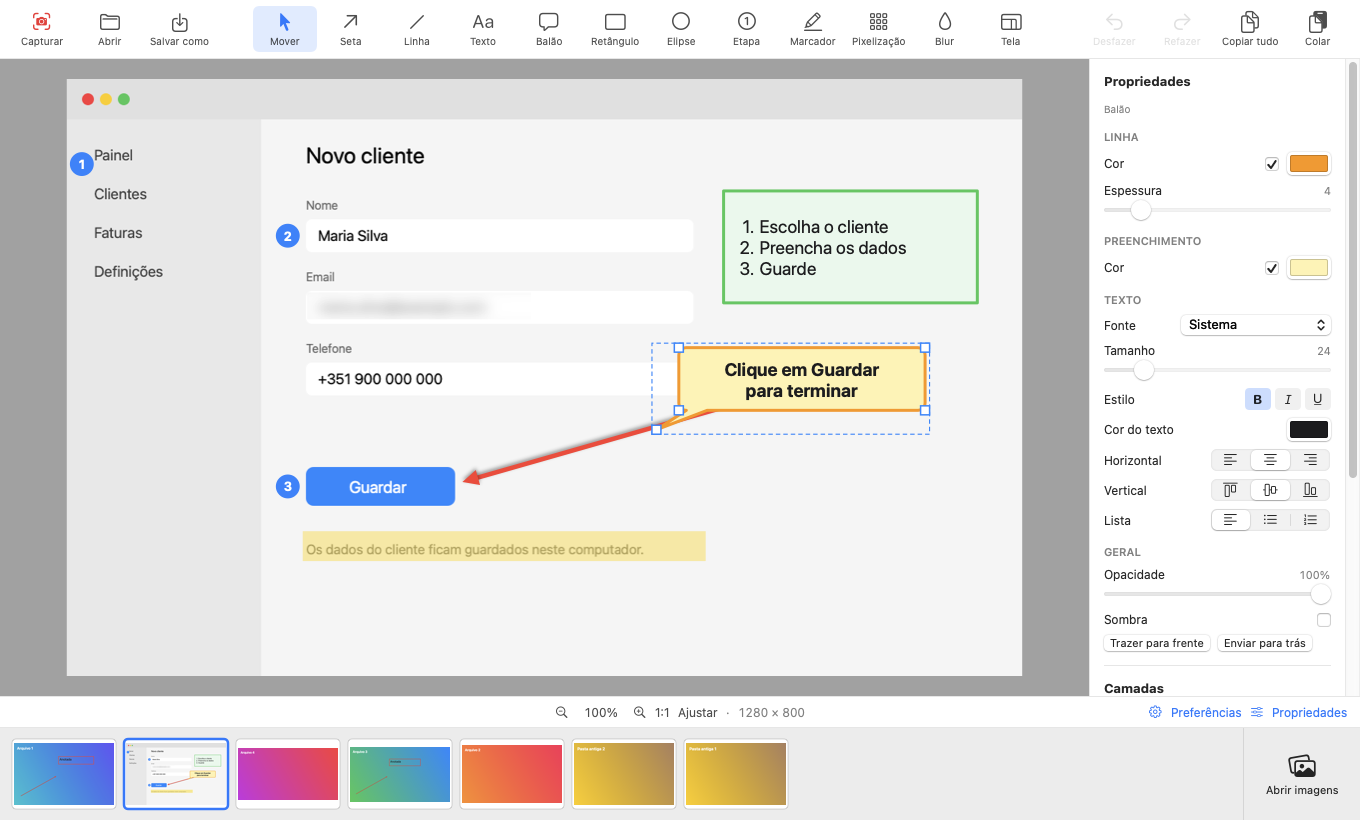
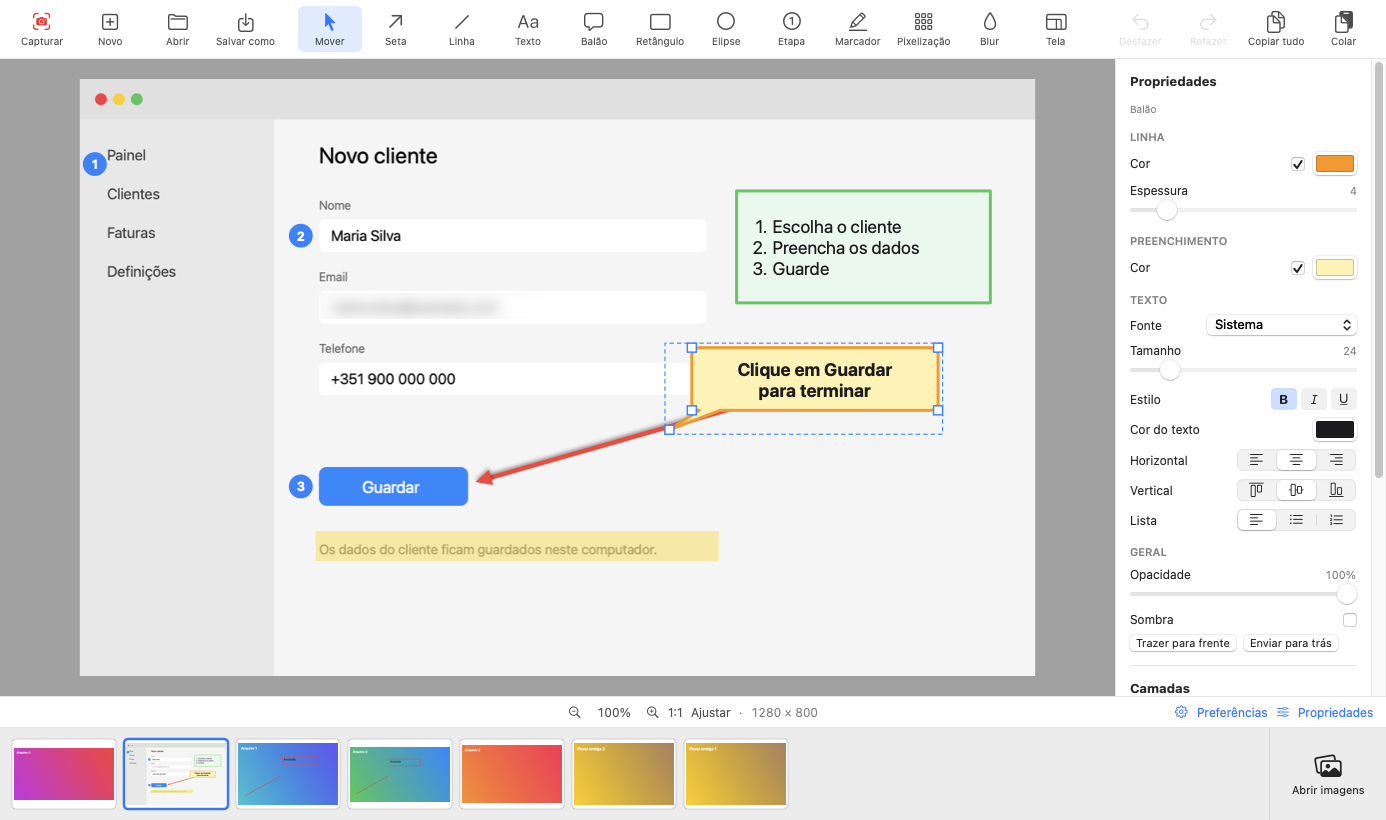
Toth 1.1.0: página atualizada

diff --git a/README.md b/README.md
@@ -9,7 +9,7 @@
 
 <p align="center"><img src="images/toth-editor-pt.png" alt="Editor do Toth" width="900"></p>
 
-> **Versão 1.0.0 (pré-visualização).** Descarregue em [**Releases**](../../releases/latest). A app ainda não está notarizada pela Apple (ver *Instalar*) e os documentos legais são rascunhos. Este repositório só tem a página de descarregamento; o código-fonte é privado.
+> **Versão 1.1.0 (pré-visualização).** Descarregue em [**Releases**](../../releases/latest). A app ainda não está notarizada pela Apple (ver *Instalar*) e os documentos legais são rascunhos. Este repositório só tem a página de descarregamento; o código-fonte é privado.
 
 ---
 
@@ -20,6 +20,7 @@
 **Captura**
 - **Região com o ecrã congelado** ao carregar no atalho: a captura é a do momento do atalho, mesmo que o ecrã mude depois. Arraste para escolher a área, **mova-a e redimensione-a** pelas alças, e só ao **confirmar** (botão *Capturar* ou **Enter**) segue para o editor. **Esc** cancela. Funciona com vários monitores.
 - **Ecrã inteiro** pelo menu da barra de menus.
+- **Imagem nova**, para além das capturas: **em branco** (tamanho, cor de fundo ou transparente) ou **a partir da área de transferência** (botão *Novo*, menu *Ficheiro*; ⌘N e ⇧⌘N).
 - **Atalho global configurável** (por omissão **⌃⇧4**) em *Preferências*; avisa se a combinação é do sistema ou já está em uso.
 
 **Editor (não destrutivo: a imagem original nunca é alterada)**
@@ -27,10 +28,11 @@
 - **Texto no próprio objeto** (texto, balão, retângulo, elipse): fonte, tamanho, negrito/itálico/sublinhado, cor, alinhamento horizontal e vertical, listas de marcadores ou numeradas.
 - **Cores da linha e do preenchimento** à escolha, espessura, opacidade e sombra.
 - **Etapas numeradas** (1, 2, 3 · I, II, III · i, ii, iii · A, B, C · a, b, c), com cor do círculo e do número, fonte e **reinício da sequência**.
-- **Blur e Pixelização** com intensidade ajustável, para ocultar informação sensível.
+- **Blur e Pixelização** com intensidade ajustável, para ocultar informação sensível. Atuam sobre **tudo o que está por baixo**: a imagem e também os objetos inseridos em camadas inferiores (um objeto por cima do efeito continua nítido).
 - **Área de trabalho (Tela):** aumente ou diminua a imagem, com cor de fundo ou transparente; **expande-se sozinha** quando um elemento sai da área.
 - **Camadas:** ordem, ocultar, remover. Qualquer elemento pode ser removido ou editado **mais tarde**, mesmo depois de fechar e reabrir.
 - **Copiar, colar, duplicar**; cola **imagens e texto de outras apps**. Desfazer/refazer, zoom e deslocamento.
+- **Seleção rápida:** com uma ferramenta de desenho ativa, **clicar** num objeto existente seleciona-o e mostra as opções desse objeto; **arrastar** continua a desenhar um novo (por exemplo, uma seta a partir de uma caixa). **⌥ + clique** força a criação por cima de um objeto (útil para as etapas).
 - **Exportar PNG** ou **copiar tudo** para a área de transferência.
 
 **Biblioteca**
@@ -46,13 +48,13 @@
 macOS 15 ou superior (Apple Silicon e Intel; testado em Apple Silicon).
 
 ### Instalar
-1. Em [**Releases**](../../releases/latest), descarregue `Toth-1.0.0.zip` e descomprima.
+1. Em [**Releases**](../../releases/latest), descarregue `Toth-1.1.0.zip` e descomprima.
 2. Arraste `Toth.app` para a pasta **Aplicações**.
 3. **Primeira abertura (só é preciso uma vez):** como a app ainda não está notarizada pela Apple, o macOS mostra *“Toth” não aberto*, com os botões *Mover para o Lixo* e *OK*. **Não mova para o Lixo.** Clique em **OK**, abra **Definições do Sistema → Privacidade e Segurança**, desça até **Segurança**, clique em **Abrir mesmo assim** junto a “Toth”, confirme com a palavra-passe ou Touch ID e clique em **Abrir**. (No macOS 14 ou anterior basta botão direito → **Abrir**. Alternativa no Terminal: `xattr -dr com.apple.quarantine /Applications/Toth.app`.)
-4. Conceda a permissão de **Gravação de Ecrã** (*Definições do Sistema → Privacidade e Segurança → Gravação de Ecrã e Áudio do Sistema*) e volte a abrir a app. O Toth fica na **barra de menus**, sem ícone no Dock.
+4. Conceda a permissão de **Gravação de Ecrã** (*Definições do Sistema → Privacidade e Segurança → Gravação de Ecrã e Áudio do Sistema*) e volte a abrir a app. O Toth aparece no **Dock** e na **barra de menus**; clicar no ícone do Dock abre o editor.
 
 ### Usar
-Carregue em **⌃⇧4** (ou use o ícone na barra de menus) → escolha a área → **Enter** → anote → **Salvar como** / **Copiar tudo**. As **Preferências** (engrenagem no rodapé, ou ⌘,) têm o atalho e o idioma.
+Carregue em **⌃⇧4** (ou use o ícone na barra de menus ou o menu *Ficheiro*) → escolha a área → **Enter** → anote → **Salvar como** / **Copiar tudo**. As **Preferências** (engrenagem no rodapé, ou ⌘,) têm o atalho e o idioma.
 
 ### Ainda não tem
 Captura de janela e de scroll, temporizador, cursor na captura, vídeo/áudio/GIF, apagar uma área da imagem, versão para Windows. Fora do âmbito por decisão: contas, partilha online, IA na nuvem e telemetria.
@@ -71,6 +73,7 @@ Gratuita, de código fechado. Dúvidas e problemas: abra uma *issue* neste repos
 **Capture**
 - **Region capture with a frozen screen:** the screen freezes the moment you press the shortcut, so the capture is that exact moment even if the screen changes afterwards. Drag to choose the area, **move and resize** it with the handles, and only when you **confirm** (*Capture* button or **Enter**) does it go to the editor. **Esc** cancels. Multi-monitor aware.
 - **Full-screen capture** from the menu bar.
+- **New images** besides captures: **blank** (size, background color or transparent) or **from the clipboard** (*New* button, *File* menu; ⌘N and ⇧⌘N).
 - **Configurable global shortcut** (default **⌃⇧4**) in *Preferences*; it warns if a combination is taken by the system or already in use.
 
 **Editor (non-destructive: the original image is never changed)**
@@ -78,10 +81,11 @@ Gratuita, de código fechado. Dúvidas e problemas: abra uma *issue* neste repos
 - **Text directly in the object** (text, callout, rectangle, ellipse): font, size, bold/italic/underline, color, horizontal and vertical alignment, bulleted or numbered lists.
 - Your choice of **line and fill colors**, thickness, opacity and shadow.
 - **Numbered steps** (1, 2, 3 · I, II, III · i, ii, iii · A, B, C · a, b, c), with circle and number colors, font, and **sequence restart**.
-- **Blur and Pixelate** with adjustable strength, to hide sensitive information.
+- **Blur and Pixelate** with adjustable strength, to hide sensitive information. They act on **everything beneath them**: the image and also objects on lower layers (an object above the effect stays sharp).
 - **Work area (Canvas):** enlarge or shrink the image, with a background color or transparent; it **expands automatically** when an element goes outside the area.
 - **Layers:** order, hide, remove. Any element can be removed or edited **later**, even after closing and reopening.
 - **Copy, paste, duplicate**; pastes **images and text from other apps**. Undo/redo, zoom and pan.
+- **Quick selection:** with a drawing tool active, **clicking** an existing object selects it and shows its options; **dragging** keeps drawing a new one (for example an arrow from a box). **⌥ + click** forces creation on top of an object (handy for steps).
 - **Export PNG** or **copy all** to the clipboard.
 
 **Library**
@@ -97,13 +101,13 @@ Gratuita, de código fechado. Dúvidas e problemas: abra uma *issue* neste repos
 macOS 15 or later (Apple Silicon and Intel; tested on Apple Silicon).
 
 ### Install
-1. Under [**Releases**](../../releases/latest), download `Toth-1.0.0.zip` and unzip it.
+1. Under [**Releases**](../../releases/latest), download `Toth-1.1.0.zip` and unzip it.
 2. Drag `Toth.app` to **Applications**.
 3. **First launch (only needed once):** because the app is not yet notarized by Apple, macOS shows *“Toth” Not Opened*, with *Move to Trash* and *Done* buttons. **Don't move it to the Trash.** Click **Done**, open **System Settings → Privacy & Security**, scroll to **Security**, click **Open Anyway** next to “Toth”, confirm with your password or Touch ID, then click **Open**. (On macOS 14 or earlier, right-click → **Open** is enough. Terminal alternative: `xattr -dr com.apple.quarantine /Applications/Toth.app`.)
-4. Grant the **Screen Recording** permission (*System Settings → Privacy & Security → Screen & System Audio Recording*) and reopen the app. Toth lives in the **menu bar**, with no Dock icon.
+4. Grant the **Screen Recording** permission (*System Settings → Privacy & Security → Screen & System Audio Recording*) and reopen the app. Toth shows in the **Dock** and the **menu bar**; clicking the Dock icon opens the editor.
 
 ### Use
-Press **⌃⇧4** (or use the menu bar icon) → choose the area → **Enter** → annotate → **Save as** / **Copy all**. **Preferences** (gear icon in the footer, or ⌘,) hold the shortcut and the language.
+Press **⌃⇧4** (or use the menu bar icon or the *File* menu) → choose the area → **Enter** → annotate → **Save as** / **Copy all**. **Preferences** (gear icon in the footer, or ⌘,) hold the shortcut and the language.
 
 ### Not yet available
 Window and scrolling capture, timer, cursor in captures, video/audio/GIF, erasing an area of the image, a Windows version. Out of scope by design: accounts, online sharing, cloud AI and telemetry.
